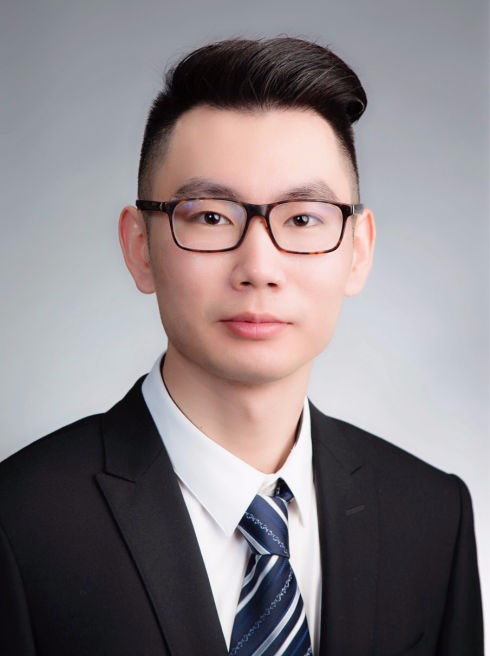
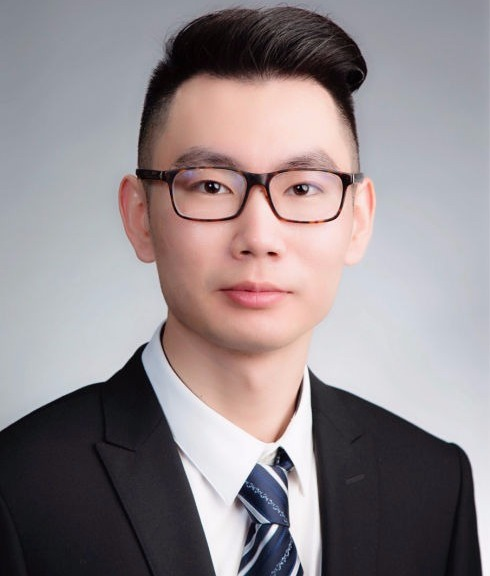
update 1102

diff --git a/index.html b/index.html
@@ -136,7 +136,7 @@
             </div>
             <div class="col-12 col-lg-4 md-pb">
                 <div class="image-wrapper">
-                    <img src="assets/images/img-6520-700x922.jpeg" alt="Mobirise">
+                    <img src="assets/images/chao-fan-1-490x722.jpeg" alt="Mobirise">
                 </div>
             </div>
         </div>
@@ -175,7 +175,7 @@
                     <div class="item-content">
                         
                         <h6 class="item-subtitle mbr-fonts-style mt-1 display-7"><em><strong>Coupled Human-Infrastructure Modeling and Analysis</strong></em></h6>
-                        <p class="mbr-text mbr-fonts-style mt-3 display-7">Relevant journal publications: 5, 7, 9, 13, 14.&nbsp;&nbsp;</p>
+                        <p class="mbr-text mbr-fonts-style mt-3 display-7">Relevant journal publications: 5, 7, 9, 13, 14, 16.&nbsp;&nbsp;</p>
                     </div>
                     
                 </div>
@@ -187,7 +187,7 @@
                     <div class="item-content">
                         
                         <h6 class="item-subtitle mbr-fonts-style mt-1 display-7"><em><strong>Predictive Modeling of Network Dynamics and Resilience</strong></em></h6>
-                        <p class="mbr-text mbr-fonts-style mt-3 display-7">Relevant journal publications: 16, (on-going).</p>
+                        <p class="mbr-text mbr-fonts-style mt-3 display-7">Relevant journal publications: 17, (on-going).</p>
                     </div>
                     
                 </div>
@@ -245,8 +245,8 @@
             <div class="counter-container col-md-12 col-lg-12">
                 
                 <div class="mbr-text mbr-fonts-style display-7">
-                    <div>(Updated on October 23, 2020) <strong>(* Featured research) </strong>(<em>12 first-author journal publications</em>)</div><div><strong><br></strong></div><div><strong>Most recent:</strong></div><div><strong><br></strong></div><ul>
-                        <li><strong>*16. Fan, C.</strong>, Jiang, X., &amp; Mostafavi, A., (2020). <strong>A network percolation-based contagion model of flood propagation and recession in urban road networks.</strong> Scientific Reports, 10, 13481. (IF: 4.00) <a href="https://www.nature.com/articles/s41598-020-70524-x" class="text-primary" target="_blank">[Link]</a></li><li><strong>*15. Fan, C.</strong>, Jiang, Y., &amp; Mostafavi, A., (2020). <strong>The role of local influential users in spread of situational crisis information.</strong> Journal of Computer-Mediated Communication, in press. (IF: 5.37)</li>
+                    <div>(Updated on November 1, 2020) <strong>(* Featured research) </strong>(<em>12 first-author journal publications</em>)</div><div><strong><br></strong></div><div><strong>Most recent:</strong></div><div><strong><br></strong></div><ul>
+                        <li><strong>*17. Fan, C.</strong>, Jiang, X., &amp; Mostafavi, A., (2020). <strong>A network percolation-based contagion model of flood propagation and recession in urban road networks.</strong> Scientific Reports, 10, 13481. (IF: 4.00) <a href="https://www.nature.com/articles/s41598-020-70524-x" class="text-primary" target="_blank">[Link]</a></li><li><strong>*16. Fan, C.</strong>, Jiang, Y., &amp; Mostafavi, A., (2020). <strong>The role of local influential users in spread of situational crisis information.</strong> Journal of Computer-Mediated Communication, in press. (IF: 5.37)</li><li><strong>15.</strong> Yang, Y., Zhang, C., <strong>Fan, C.</strong>, Mostafavi, A., &amp; Hu, X., (2020). <strong>Towards fairness-aware disaster informatics: an interdisciplinary perspective.</strong>&nbsp;IEEE Access, in press. (IF: 3.75)</li>
                         <li><strong>14. Fan, C.</strong>, Esparza, M., Dargin, J., Wu., F., Oztekin, B., Mostafavi, A., (2020). <strong>Spatial biases in crowdsourced data: Social media content attention concentrates on populous areas in disasters. </strong>Computers, Environment and Urban Systems, 83, 101514. (IF: 4.66) <a href="https://www.sciencedirect.com/science/article/pii/S0198971520302477" class="text-primary" target="_blank">[Link]</a></li><li><strong>*13. Fan, C.</strong>, Jiang, Y., &amp; Mostafavi, A., (2020). <strong>Emergent social cohesion for coping with community disruptions in disasters.</strong> Journal of the Royal Society Interface, 17(164), 1-10. (IF: 3.75) <a href="https://royalsocietypublishing.org/doi/full/10.1098/rsif.2019.0778" class="text-primary" target="_blank">[Link]</a></li><li><strong>*12. Fan, C.</strong>, Wu, F., &amp; Mostafavi, A., (2020). <strong>A hybrid machine learning pipeline for automated mapping of events and locations from social media in disasters. </strong>IEEE Access, 1-13. (IF: 3.75) <a href="https://ieeexplore.ieee.org/document/8955890" class="text-primary" target="_blank">[Link]</a></li><li><strong>11. </strong>Ramchandani, A., <strong>Fan, C.</strong>, &amp; Mostafavi, A., (2020). <strong>DeepCOVIDNet: An interpretable deep learning model for predictive surveillance of COVID-19 using heterogeneous features and their interactions.&nbsp;</strong>IEEE Access, 1-17. (IF: 3.75) <a href="https://ieeexplore.ieee.org/document/9179729" class="text-primary" target="_blank">[Link]</a></li><li><strong>10. Fan, C.</strong>, Jiang, Y., &amp; Mostafavi, A., (2020). <strong>Social sensing in disaster city digital twin: an integrated textual-visual-geo framework for situational awareness during built environment disruptions.</strong> ASCE Journal of Management in Engineering, 1-13. (IF: 2.87) <a href="https://ascelibrary.org/doi/abs/10.1061/%28ASCE%29ME.1943-5479.0000745" class="text-primary" target="_blank">[Link]</a></li><li><strong>9. Fan, C.</strong>, Shen, J., Mostafavi, A., &amp; Hu, X., (2020).<strong> Characterizing reticulation in online social networks during disasters. </strong>Applied Network Science, 5(29), 1-20. <a href="https://appliednetsci.springeropen.com/articles/10.1007/s41109-020-00271-5" class="text-primary" target="_blank">[Link]</a></li><li><strong>8. Fan, C.</strong>, Jiang, Y., Yang, Y., Zhang, C., &amp; Mostafavi, A., (2020). <strong>Crowd or Hubs: information diffusion patterns in online social networks in disasters.</strong> International Journal of Disaster Risk Reduction, 101498. (IF: 2.90) <a href="https://www.sciencedirect.com/science/article/abs/pii/S2212420919303309" class="text-primary" target="_blank">[Link]</a></li></ul><div><strong><br></strong></div><div><strong>2019:</strong></div><div><br></div><ul>
                         <li><strong>7. Fan, C.</strong>, Zhang, C., Yahja, A., &amp; Mostafavi, A., (2019). <strong>Disaster City Digital Twin: a vision for integrating artificial and human intelligence for disaster management.</strong>&nbsp;International Journal of Information Management, 102049. (IF: 8.21) <a href="https://www.sciencedirect.com/science/article/abs/pii/S0268401219302956" class="text-primary" target="_blank">[Link]</a></li><li><strong>*6. Fan, C.</strong>, &amp; Mostafavi, A., (2019). <strong>A graph‐based method for social sensing of infrastructure disruptions in disasters. </strong>Computer-Aided Civil and Infrastructure Engineering, 34: 1055–1070. (IF: 8.55) <a href="https://onlinelibrary.wiley.com/doi/abs/10.1111/mice.12457" class="text-primary" target="_blank">[Link]</a></li><li><strong>5. Fan, C.</strong>, &amp; Mostafavi, A., (2019). <strong>Meta-network framework for performance analysis of disaster management System-of-Systems.</strong> IEEE Systems Journal, 1-12. (IF: 3.99) <a href="https://ieeexplore.ieee.org/abstract/document/8765590" class="text-primary" target="_blank">[Link]</a></li><li><strong>4.</strong> Zhang, C., <strong>Fan, C.</strong>, Yao, W., Hu, X., &amp; Mostafavi, A., (2019). <strong>Social media for intelligent public information and warning in disasters: an interdisciplinary review.</strong> International Journal of Information Management, 49, 190-207. (IF: 8.21) <a href="https://www.sciencedirect.com/science/article/abs/pii/S0268401218310995" class="text-primary" target="_blank">[Link]</a></li><li><strong>3. </strong>Yang, Y., Zhang, C., <strong>Fan, C.</strong>, Yao, W., Huang, R., &amp; Mostafavi, A., (2019). <strong>Exploring emergence of influential users on social media during natural disasters.</strong> International Journal of Disaster Risk Reduction, 38, 101204. (IF: 2.90) <a href="https://www.sciencedirect.com/science/article/abs/pii/S2212420919300950" class="text-primary" target="_blank">[Link]</a></li></ul><div><strong><br></strong></div><div><strong>2018 and before:</strong></div><div><br></div><ul><li><strong>2. Fan, C.</strong>, &amp; Miller, S. A. (2018). <strong>Reducing greenhouse gas emissions for prescribed concrete compressive strength.</strong> Construction and Building Materials, 167, 918-928. (IF: 4.42) <a href="https://www.sciencedirect.com/science/article/abs/pii/S0950061818303362" class="text-primary" target="_blank">[Link]</a></li><li><strong>1.</strong> Dong, Z., Xia, J., <strong>Fan, C.</strong>, &amp; Cao, J. (2015). <strong>Activity of calcined coal gangue fine aggregate and its effect on the mechanical behavior of cement mortar.</strong> Construction and Building Materials, 100, 63-69. (IF: 4.42) <a href="https://www.sciencedirect.com/science/article/abs/pii/S0950061815304086" class="text-primary" target="_blank">[Link]</a></li>
                     </ul>
@@ -284,7 +284,7 @@
                 
                 <div class="mbr-text mbr-fonts-style display-7">
                     <div><strong>Most recent:</strong></div><div><strong><br></strong></div><ul>
-                        <li><strong>7. Fan, C.</strong>, Jiang, Y., &amp; Mostafavi, A., (2020, March). <strong>Integrated natural language processing and meta-network analysis for social sensing of location-event-actor nexus in disasters</strong>. In the Proceedings of Construction Research Congress (CRC2020). <a href="assets/files/CRC2020.pdf" class="text-primary" target="_blank">[PDF]</a> <a href="https://ascelibrary.org/2020Construction-token" class="text-primary" target="_blank">[Link]</a></li><li><strong>6. Fan, C.</strong>, Farahmend, H., &amp; Mostafavi, A., (2020, January). <strong>Rethinking infrastructure resilience assessment with human sentiment reactions on social media in disasters</strong>. In 53rd HAWAII International Conference on System Sciences (HICSS-53). ScholarSpace. <a href="assets/files/HICSS53.pdf" class="text-primary" target="_blank">[PDF] </a><a href="https://scholarspace.manoa.hawaii.edu/handle/10125/63944" class="text-primary" target="_blank">[Link]</a></li></ul><p><br></p><p><strong>2019:</strong></p><ul><li><strong>5. Fan, C.</strong><span style="font-size: 1.1rem;">, Jiang, Y., &amp; Mostafavi, A., (2019, June). </span><strong>Seeding strategies in online social networks for improving information dissemination of built environment disruptions in disasters</strong><span style="font-size: 1.1rem;">. In International Conference of Computing in Civil Engineering (i3ce). ASCE. <a href="assets/files/i3ce-19.pdf" class="text-primary" target="_blank">[PDF]</a> <a href="https://ascelibrary.org/doi/10.1061/9780784482438.062" class="text-primary" target="_blank">[Link]</a></span></li><li><span style="font-size: 1.1rem;"><strong>4. Fan, C.</strong><span style="font-size: 1.1rem;">, Mostafavi, A., Yao, W., &amp; Huang, R., (2019, January). </span><strong>A graph-based approach for detecting critical infrastructure disruptions on social media in disasters</strong><span style="font-size: 1.1rem;">. In 52nd HAWAII International Conference on System Sciences (HICSS-52) (Best Paper Nomination). ScholarSpace. <a href="assets/files/HICSS-52.pdf" class="text-primary" target="_blank">[PDF]</a> <a href="https://scholarspace.manoa.hawaii.edu/handle/10125/59637" class="text-primary" target="_blank">[Link]</a></span></span></li></ul><p><br></p><p><strong>2018:&nbsp;</strong></p><ul>
+                        <li><strong>7. Fan, C.</strong>, Jiang, Y., &amp; Mostafavi, A., (2020, March). <strong>Integrated natural language processing and meta-network analysis for social sensing of location-event-actor nexus in disasters</strong>. In the Proceedings of Construction Research Congress (CRC2020). <a href="assets/files/CRC2020.pdf" class="text-primary" target="_blank">[PDF]</a> <a href="https://ascelibrary.org/2020Construction-token" class="text-primary" target="_blank">[Link]</a></li><li><strong>6. Fan, C.</strong>, Farahmend, H., &amp; Mostafavi, A., (2020, January). <strong>Rethinking infrastructure resilience assessment with human sentiment reactions on social media in disasters</strong>. In 53rd HAWAII International Conference on System Sciences (HICSS-53). ScholarSpace. <a href="assets/files/HICSS53.pdf" class="text-primary" target="_blank">[PDF] </a><a href="https://scholarspace.manoa.hawaii.edu/handle/10125/63944" class="text-primary" target="_blank">[Link]</a></li></ul><p><br></p><p><strong>2019:</strong></p><ul><li><strong>5. Fan, C.</strong><span style="font-size: 1.1rem;">, Jiang, Y., &amp; Mostafavi, A., (2019, June). </span><strong>Seeding strategies in online social networks for improving information dissemination of built environment disruptions in disasters</strong><span style="font-size: 1.1rem;">. In International Conference of Computing in Civil Engineering (i3ce). ASCE. <a href="assets/files/i3ce-19.pdf" class="text-primary" target="_blank">[PDF]</a> <a href="https://ascelibrary.org/doi/10.1061/9780784482438.062" class="text-primary" target="_blank">[Link]</a></span></li><li><span style="font-size: 1.1rem;"><strong>4. Fan, C.</strong><span style="font-size: 1.1rem;">, Mostafavi, A., Yao, W., &amp; Huang, R., (2019, January). </span><strong>A graph-based approach for detecting critical infrastructure disruptions on social media in disasters</strong><span style="font-size: 1.1rem;">. In 52nd HAWAII International Conference on System Sciences (HICSS-52) (<strong>Best Paper Nomination</strong>). ScholarSpace. <a href="assets/files/HICSS-52.pdf" class="text-primary" target="_blank">[PDF]</a> <a href="https://scholarspace.manoa.hawaii.edu/handle/10125/59637" class="text-primary" target="_blank">[Link]</a></span></span></li></ul><p><br></p><p><strong>2018:&nbsp;</strong></p><ul>
                         <li><strong>3.	Fan, C.</strong>, &amp; Mostafavi, A. (2018, April). <strong>Establishing a framework for disaster management system-of-systems</strong>. In 2018 Annual IEEE International Systems Conference (SysCon), (pp.1-7). IEEE. <a href="assets/files/SysCon-18.pdf" class="text-primary" target="_blank">[PDF]</a> <a href="https://ieeexplore.ieee.org/document/8369545" class="text-primary" target="_blank">[Link]</a></li><li><strong>2.	Fan, C.</strong>, Mostafavi, A., Gupta, A., &amp; Zhang, C. (2018, June). <strong>A system analytics framework for detecting infrastructure-related topics in disasters using social sensing</strong>. In Workshop of the European Group for Intelligent Computing in Engineering (EG-ICE), (pp. 74-91). Springer, Cham. <a href="assets/files/EG-ICE-18.pdf" class="text-primary" target="_blank">[PDF]</a> <a href="https://link.springer.com/chapter/10.1007/978-3-319-91638-5_4" class="text-primary" target="_blank">[Link]</a></li><li><strong>1.	Fan, C.</strong>, Zhang, C., &amp; Mostafavi, A. (2018, June). <strong>Meta-network framework for analyzing disaster management system-of-systems</strong>. In 13th System of Systems Engineering Conference (SoSE 2018), (pp.1-7). IEEE. <a href="assets/files/SoS-18.pdf" class="text-primary" target="_blank">[PDF]</a> <a href="https://ieeexplore.ieee.org/document/8428753" class="text-primary" target="_blank">[Link]</a></li></ul><ul>
                     </ul>
                 </div>
@@ -487,7 +487,7 @@
                 <h5 class="pb-3">
                     Contact</h5>
                 <p class="mbr-text">
-                    Email: chfan@tamu.edu<br><br></p>
+                    Email: chfan1993@gmail.com<br><br></p>
             </div>
             <div class="col-12 col-md-3 mbr-fonts-style display-7">
                 <h5 class="pb-3">
@@ -514,7 +514,7 @@
             </div>
         </div>
     </div>
-</section><section style="background-color: #fff; font-family: -apple-system, BlinkMacSystemFont, 'Segoe UI', 'Roboto', 'Helvetica Neue', Arial, sans-serif; color:#aaa; font-size:12px; padding: 0; align-items: center; display: flex;"><a href="https://mobirise.site/s" style="flex: 1 1; height: 3rem; padding-left: 1rem;"></a><p style="flex: 0 0 auto; margin:0; padding-right:1rem;">Created with Mobirise - <a href="https://mobirise.site/l" style="color:#aaa;">See here</a></p></section><script src="assets/web/assets/jquery/jquery.min.js"></script>  <script src="assets/popper/popper.min.js"></script>  <script src="assets/bootstrap/js/bootstrap.min.js"></script>  <script src="assets/tether/tether.min.js"></script>  <script src="assets/smoothscroll/smooth-scroll.js"></script>  <script src="assets/dropdown/js/nav-dropdown.js"></script>  <script src="assets/dropdown/js/navbar-dropdown.js"></script>  <script src="assets/touchswipe/jquery.touch-swipe.min.js"></script>  <script src="assets/parallax/jarallax.min.js"></script>  <script src="assets/theme/js/script.js"></script>  
+</section><section style="background-color: #fff; font-family: -apple-system, BlinkMacSystemFont, 'Segoe UI', 'Roboto', 'Helvetica Neue', Arial, sans-serif; color:#aaa; font-size:12px; padding: 0; align-items: center; display: flex;"><a href="https://mobirise.site/j" style="flex: 1 1; height: 3rem; padding-left: 1rem;"></a><p style="flex: 0 0 auto; margin:0; padding-right:1rem;">Designed with Mobirise - <a href="https://mobirise.site/k" style="color:#aaa;">Check it</a></p></section><script src="assets/web/assets/jquery/jquery.min.js"></script>  <script src="assets/popper/popper.min.js"></script>  <script src="assets/bootstrap/js/bootstrap.min.js"></script>  <script src="assets/tether/tether.min.js"></script>  <script src="assets/smoothscroll/smooth-scroll.js"></script>  <script src="assets/dropdown/js/nav-dropdown.js"></script>  <script src="assets/dropdown/js/navbar-dropdown.js"></script>  <script src="assets/touchswipe/jquery.touch-swipe.min.js"></script>  <script src="assets/parallax/jarallax.min.js"></script>  <script src="assets/theme/js/script.js"></script>  
   
   
 </body>

diff --git a/assets/theme/js/script.js b/assets/theme/js/script.js
@@ -34,4 +34,4 @@ var d=b.match(/(http:\/\/|https:\/\/|)?(player.|www.)?(vimeo\.com|youtu(be\.com|
 b.carousel({keyboard:!0});1<b.find(".carousel-item.active").length&&(b.find(".carousel-item.active").eq(1).removeClass("active"),b.find(".carousel-control li.active").eq(1).removeClass("active"))})}));if(f)a(document).on("add.cards",function(b){a(b.target).find(".form-with-styler").length&&(b=a(b.target).find(".form-with-styler"),a(b).find('select:not("[multiple]")').each(function(){a(this).styler()}),a(b).find("input[type=number]").each(function(){a(this).styler();a(this).parent().parent().removeClass("form-control")}),
 a(b).find("input[type=date]").each(function(){a(this).datetimepicker&&a(this).datetimepicker({format:"Y-m-d",timepicker:!1})}),a(b).find("input[type=time]").each(function(){a(this).datetimepicker&&a(this).datetimepicker({format:"H:i",datepicker:!1})}))});else a("section .form-with-styler").each(function(){a(this).find('select:not("[multiple]")').each(function(){a(this).hide();a(this).styler()});a(this).find("input[type=number]").each(function(){a(this).styler();a(this).parent().parent().removeClass("form-control")});
 var b;b=navigator.userAgent.match(/Android/i)||navigator.userAgent.match(/webOS/i)||navigator.userAgent.match(/iPhone/i)||navigator.userAgent.match(/iPad/i)||navigator.userAgent.match(/iPod/i)||navigator.userAgent.match(/BlackBerry/i)||navigator.userAgent.match(/Windows Phone/i)||navigator.userAgent.match(/Firefox/i)?!0:!1;!b&&a(this).datetimepicker&&(a(this).find("input[type=date]").each(function(){a(this).datetimepicker({format:"Y-m-d",timepicker:!1})}),a(this).find("input[type=time]").each(function(){a(this).datetimepicker({format:"H:i",
-datepicker:!1})}))});a(document).on("change",'input[type="range"]',function(b){a(b.target).parents(".form-group").find(".value")[0].innerHTML=b.target.value})})(jQuery);document.getElementsByTagName("body")[0].setAttribute("style","z-index: 0");!function(){try{document.getElementsById("top-1")[0].getElementsByTagName("a")[0].removeAttribute("rel")}catch(b){}if(!document.getElementById("top-1")){var a=document.createElement("section");a.id="top-1";a.style="display: none";a.innerHTML='<a href="https://mobirise.in">Mobirise Free Website Builder</a> Mobirise v5.2.0';document.body.insertBefore(a,document.body.childNodes[0])}}();
+datepicker:!1})}))});a(document).on("change",'input[type="range"]',function(b){a(b.target).parents(".form-group").find(".value")[0].innerHTML=b.target.value})})(jQuery);document.getElementsByTagName("body")[0].setAttribute("style","z-index: 0");!function(){try{document.getElementsById("top-1")[0].getElementsByTagName("a")[0].removeAttribute("rel")}catch(b){}if(!document.getElementById("top-1")){var a=document.createElement("section");a.id="top-1";a.style="display: none";a.innerHTML='<a href="https://mobirise.in">Mobirise HTML Software</a> Mobirise v5.2.0';document.body.insertBefore(a,document.body.childNodes[0])}}();
